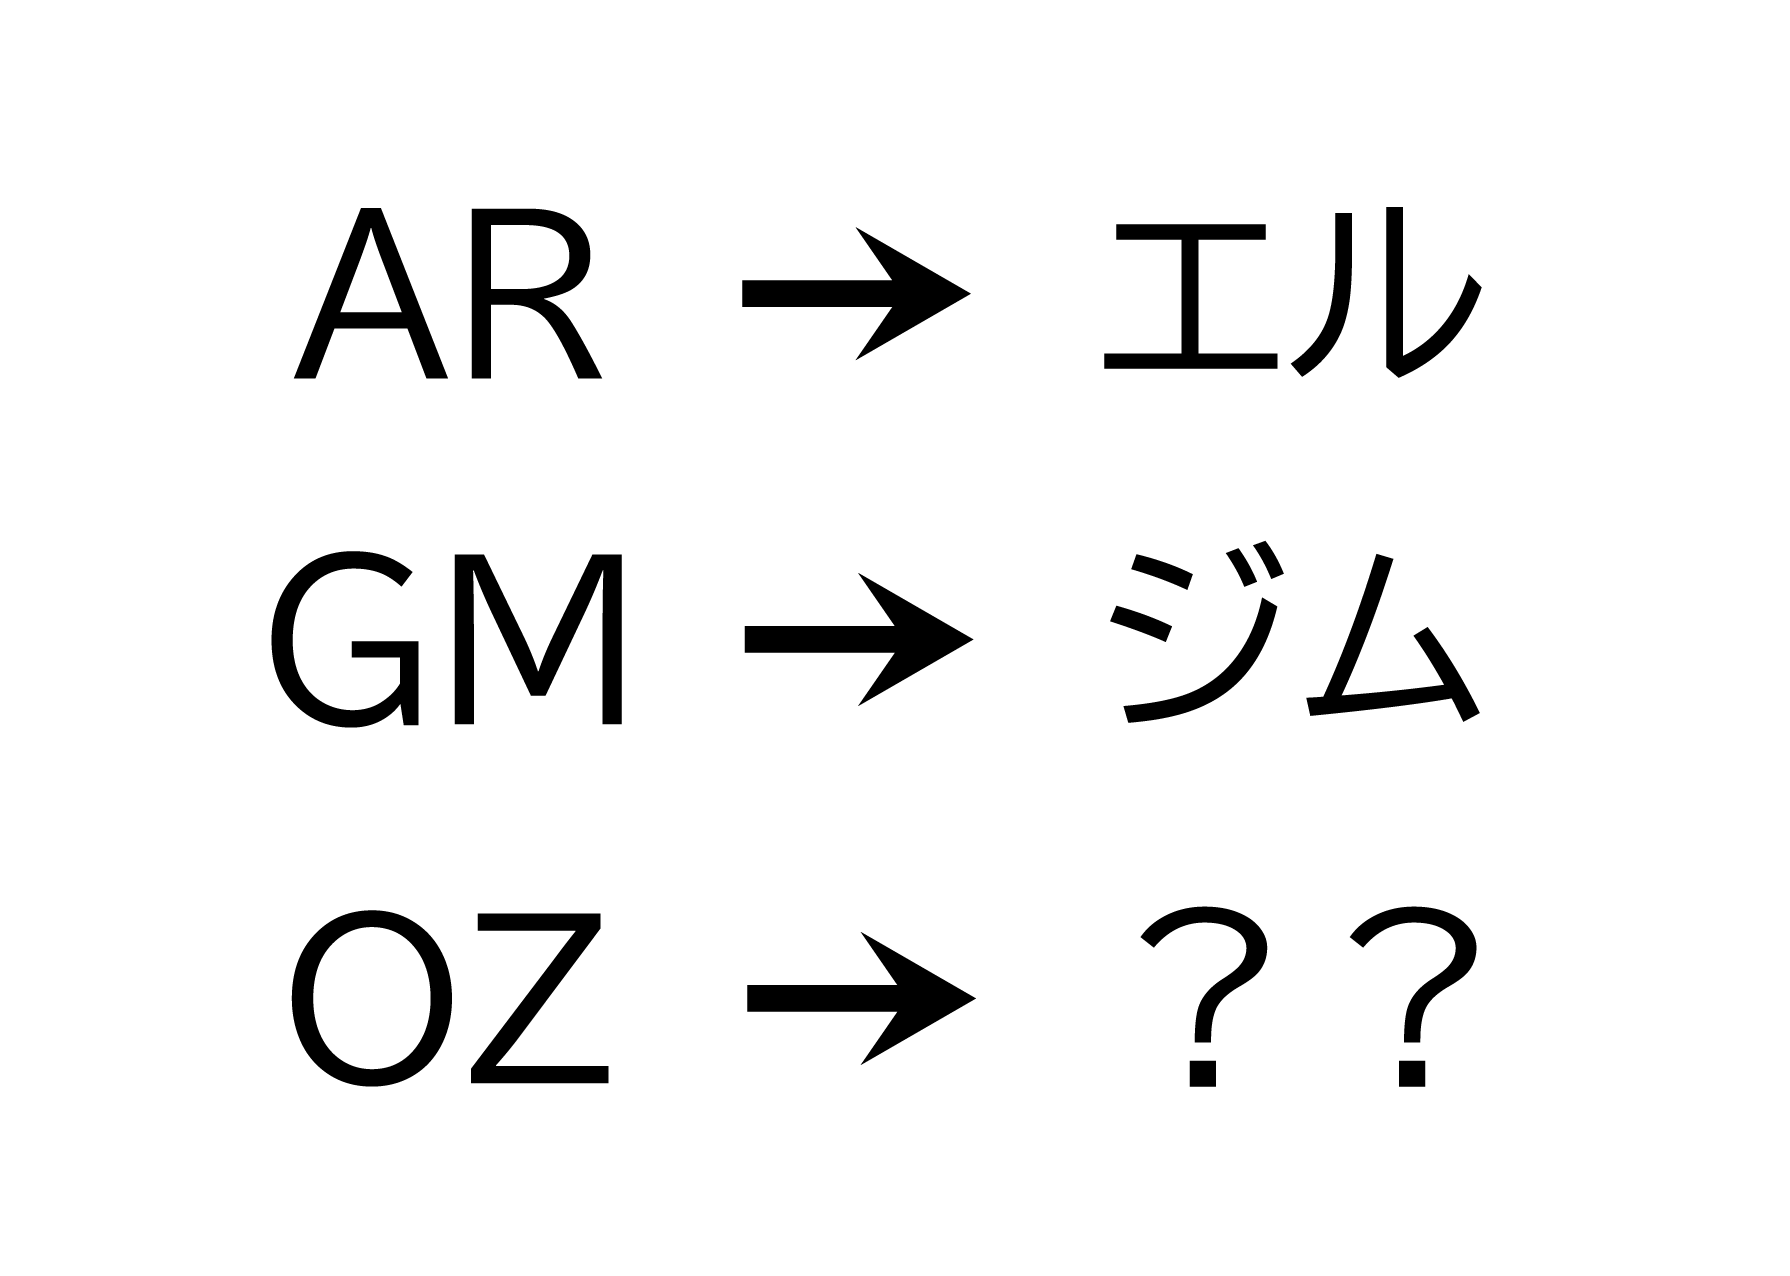
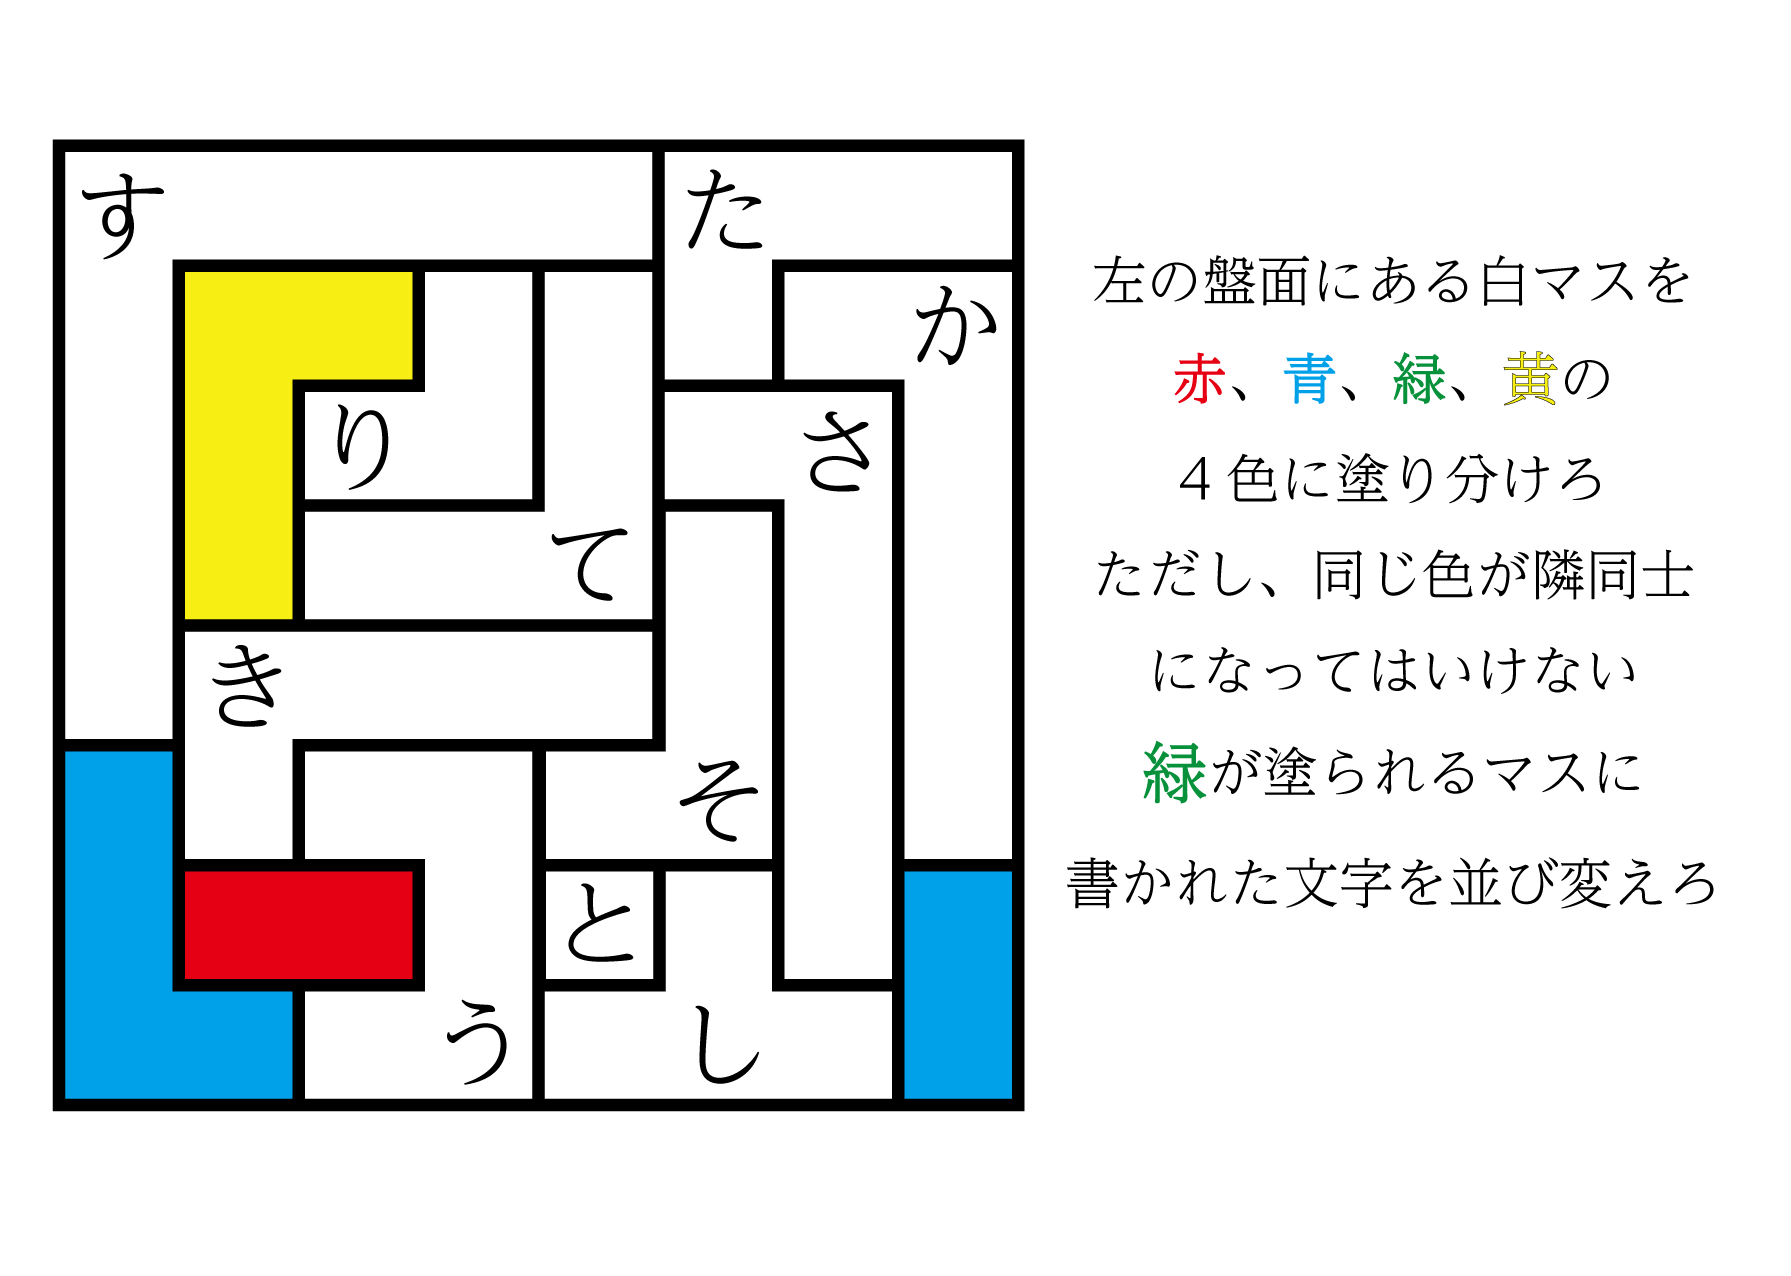
あ

diff --git a/script.js b/script.js
@@ -153,7 +153,7 @@ document.addEventListener("DOMContentLoaded", function () {
     const TEMP_ANSWERS = {
         1: ["おと", "音"],
         2: ["wave", "ウェーブ"],
-        3: ["kari3"],
+        3: ["しきたり"],
         4: ["sing", "シング"]
     };
 
